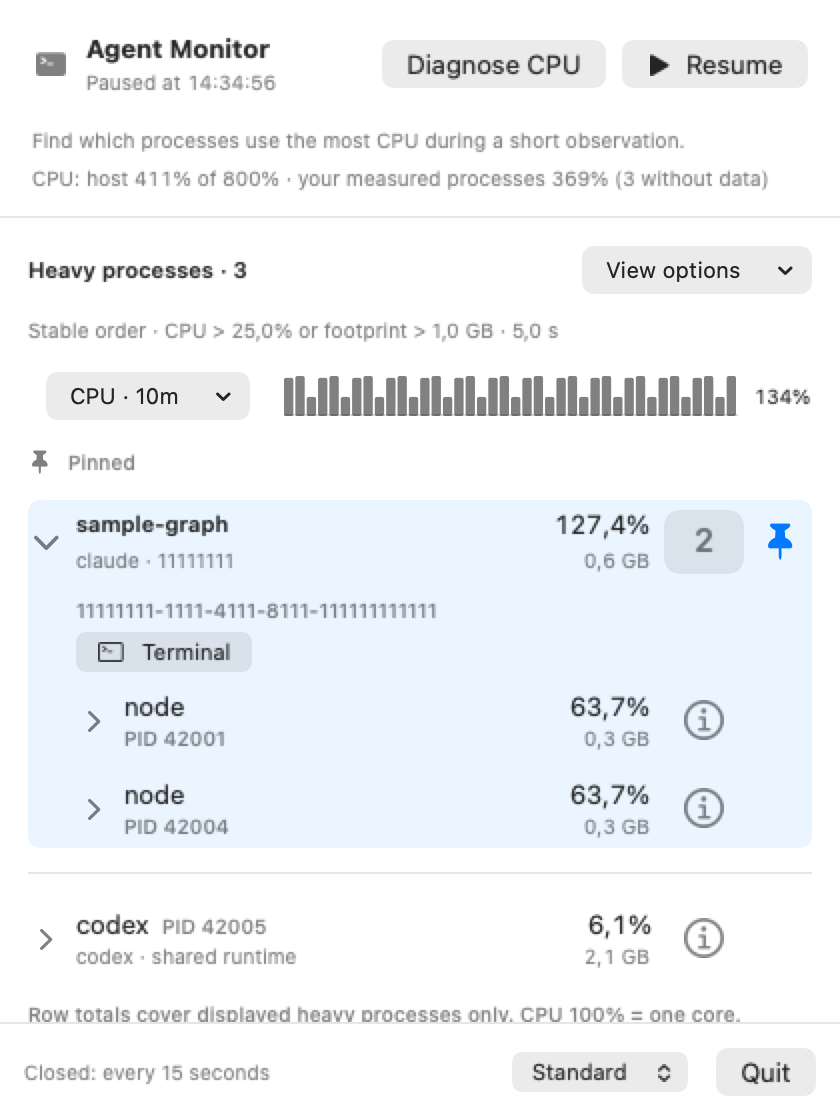
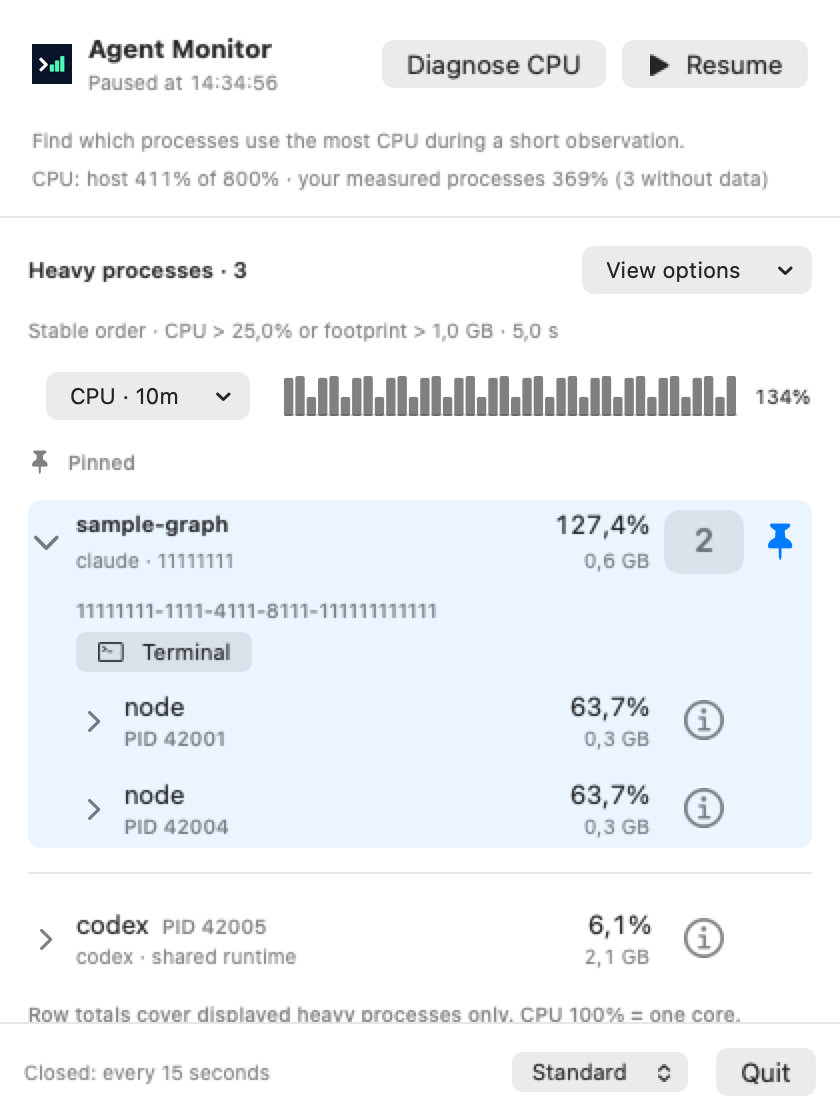
fix(menubar): separate detached controls from the branded header
Keep AppKit's implicit detachment and fixed panel size. Cache the decoded logo so sampling refreshes do not reload the artwork.

Changed region(s): [[0.031, 0.0312, 0.3405, 0.0938]]

diff --git a/Tests/AgentMonitorMenuBarTests/MenuBarRenderTests.swift b/Tests/AgentMonitorMenuBarTests/MenuBarRenderTests.swift
@@ -453,3 +453,53 @@ private struct DisclosureChevronFixture: View {
     let delegate = MenuBarDelegate()
     #expect(delegate.popoverShouldDetach(NSPopover()))
 }
+
+@Test @MainActor func detachedHeaderReservesCloseButtonSpaceAndResetsOnReopen() async throws {
+    let model = MenuBarModel { _, _, _, _ in }
+    let delegate = MenuBarDelegate(model: model)
+    model.open()
+    let host = NSHostingView(rootView: MenuBarView(model: model).background(Color.white))
+    host.appearance = NSAppearance(named: .aqua)
+    host.frame = NSRect(x: 0, y: 0, width: 420, height: 560)
+    delegate.popoverDidDetach(NSPopover())
+    #expect(model.isDetached)
+    host.layoutSubtreeIfNeeded()
+    #expect(host.fittingSize == NSSize(width: 420, height: 560))
+    let bitmap = try #require(host.bitmapImageRepForCachingDisplay(in: host.bounds))
+    host.cacheDisplay(in: host.bounds, to: bitmap)
+    let scale = Double(bitmap.pixelsWide) / host.bounds.width
+    for y in 0..<Int(24 * scale) {
+        for x in 0..<bitmap.pixelsWide {
+            let color = try #require(bitmap.colorAt(x: x, y: y)?.usingColorSpace(.deviceRGB))
+            #expect(color.redComponent > 0.99 && color.greenComponent > 0.99 && color.blueComponent > 0.99)
+        }
+    }
+    if let output = ProcessInfo.processInfo.environment["MENUBAR_DETACHED_PREVIEW_PATH"] {
+        try #require(bitmap.representation(using: .png, properties: [:])).write(
+            to: URL(fileURLWithPath: output))
+    }
+    delegate.popoverWillClose(
+        Notification(
+            name: NSPopover.willCloseNotification,
+            userInfo: [NSPopover.closeReasonUserInfoKey: NSPopover.CloseReason.standard.rawValue]))
+    #expect(!model.isDetached)
+    model.open()
+    #expect(!model.isDetached)
+    await model.stop()
+}
+
+@Test @MainActor func nativeHeaderLogoIsTheCanonicalArtwork() throws {
+    let url = try #require(MenuBarLogo.resourceURL)
+    let repository = URL(fileURLWithPath: #filePath).deletingLastPathComponent()
+        .deletingLastPathComponent().deletingLastPathComponent()
+    #expect(
+        try Data(contentsOf: url)
+            == Data(contentsOf: repository.appendingPathComponent("docs/assets/agent-monitor.webp")))
+    let image = try #require(MenuBarLogo.image)
+    #expect(image.size == NSSize(width: 256, height: 256))
+    let bitmap = try #require(image.representations.first as? NSBitmapImageRep)
+    for _ in 0..<100 {
+        #expect(MenuBarLogo.image === image)
+        #expect(MenuBarLogo.image?.representations.first === bitmap)
+    }
+}

diff --git a/Sources/AgentMonitorMenuBar/MenuBarView.swift b/Sources/AgentMonitorMenuBar/MenuBarView.swift
@@ -20,7 +20,10 @@ struct MenuBarView: View {
     var body: some View {
         VStack(alignment: .leading, spacing: 0) {
             HStack {
-                Image(systemName: "terminal.fill").foregroundStyle(.secondary)
+                if let logo = MenuBarLogo.image {
+                    Image(nsImage: logo).resizable().interpolation(.high)
+                        .frame(width: 20, height: 20).accessibilityHidden(true)
+                }
                 VStack(alignment: .leading, spacing: 3) {
                     Text("Agent Monitor").font(.headline)
                     if model.diagnosis.state.isVisible {
@@ -51,6 +54,7 @@ struct MenuBarView: View {
                 }
             }
             .padding()
+            .padding(.top, model.isDetached ? 24 : 0)
             if !model.diagnosis.state.isVisible {
                 Text(DiagnosisViewState.purpose)
                     .font(.caption).foregroundStyle(.secondary)

diff --git a/Sources/AgentMonitorMenuBar/MenuBarModel.swift b/Sources/AgentMonitorMenuBar/MenuBarModel.swift
@@ -22,6 +22,7 @@ final class MenuBarModel {
     @ObservationIgnored private var arrivalExpiry: Task<Void, Never>?
     @ObservationIgnored private var arrivalDeadline: ContinuousClock.Instant?
     private(set) var isOpen = false
+    private(set) var isDetached = false
     private(set) var error: String?
     private(set) var lastActionResult: ActionResult?
     private(set) var savedMessage: SavedMessage?
@@ -78,6 +79,11 @@ final class MenuBarModel {
         updateArrivals()
         refreshIndicator()
         startCollection()
+    }
+
+    func detach() {
+        guard isOpen else { return }
+        isDetached = true
     }
 
     func setLiveIcon(_ enabled: Bool) {
@@ -138,6 +144,7 @@ final class MenuBarModel {
     }
 
     func close() {
+        isDetached = false
         diagnosis.dismiss()
         if let panel = report.actionPanel {
             switch panel.phase {

diff --git a/Sources/AgentMonitorMenuBar/MenuBarLogo.swift b/Sources/AgentMonitorMenuBar/MenuBarLogo.swift
@@ -1,0 +1,14 @@
+import AppKit
+
+@MainActor enum MenuBarLogo {
+    static let resourceURL = Bundle.module.url(forResource: "agent-monitor", withExtension: "webp")
+    // Sampling refreshes reuse this decoded artwork rather than loading the resource in the view body.
+    static let image: NSImage? = {
+        guard let resourceURL, let data = try? Data(contentsOf: resourceURL),
+            let bitmap = NSBitmapImageRep(data: data)
+        else { return nil }
+        let image = NSImage(size: bitmap.size)
+        image.addRepresentation(bitmap)
+        return image
+    }()
+}

diff --git a/Package.swift b/Package.swift
@@ -16,7 +16,8 @@ let package = Package(
     targets: [
         .executableTarget(
             name: "AgentMonitorMenuBar",
-            dependencies: ["AgentMonitorCore", "AgentMonitorPresentation", "AgentMonitorActions"]),
+            dependencies: ["AgentMonitorCore", "AgentMonitorPresentation", "AgentMonitorActions"],
+            resources: [.process("Resources")]),
         .testTarget(
             name: "AgentMonitorMenuBarTests", dependencies: ["AgentMonitorMenuBar"]),
         .target(name: "AgentMonitorCore"),

diff --git a/Sources/AgentMonitorMenuBar/MenuBarApp.swift b/Sources/AgentMonitorMenuBar/MenuBarApp.swift
@@ -111,6 +111,7 @@ final class MenuBarDelegate: NSObject, NSApplicationDelegate, NSPopoverDelegate 
         model.close()
     }
     func popoverShouldDetach(_ popover: NSPopover) -> Bool { true }
+    func popoverDidDetach(_ popover: NSPopover) { model.detach() }
 
     func applicationShouldTerminate(_ sender: NSApplication) -> NSApplication.TerminateReply {
         Task {

diff --git a/docs/development.md b/docs/development.md
@@ -78,7 +78,7 @@ The generator places each visible grapheme at its terminal-cell coordinate and l
 
 [Preview tests](../Tests/PreviewTests/PreviewTests.swift) exercise missing/stale asset detection, XML escaping, and process/session layouts at 60, 85, 120, and 160 columns. The preview represents one illustrative state, not every interaction or exact terminal theme. Keep the existing layout and PTY tests, and review style-only TUI changes visually even if the SVG bytes do not change. `monitor-preview` is not part of the installed CLI or release archive.
 
-Size documentation images for their displayed dimensions, allowing 2× resolution for raster icons. Keep optimized web assets rather than full-resolution masters, and check file size and visual quality before committing. The README logo is a 256 × 256 WebP displayed at 128 × 128; preserve explicit display dimensions and descriptive alternative text. Keep the additional [native panel screenshot](assets/menubar-preview.webp) alongside the TUI preview, using the [synthetic offscreen render](#build-and-coverage-details); it does not establish live anchoring.
+Size documentation images for their displayed dimensions, allowing 2× resolution for raster icons. Keep optimized web assets rather than full-resolution masters, and check file size and visual quality before committing. The README logo is a 256 × 256 WebP displayed at 128 × 128; preserve explicit display dimensions and descriptive alternative text. The native header bundles the same artwork in [its resources](../Sources/AgentMonitorMenuBar/Resources/agent-monitor.webp); the resource test requires byte equality with the README asset, so update both copies together. Keep the additional [native panel screenshot](assets/menubar-preview.webp) alongside the TUI preview, using the [synthetic offscreen render](#build-and-coverage-details); it does not establish live anchoring.
 
 ## Documentation and instruction maintenance
 
@@ -223,7 +223,7 @@ This smoke test does not establish provider message delivery, process terminatio
 
 ### Build and coverage details
 
-Build with `bash scripts/menubar.sh build`; the default is an optimized release build with debug-symbol generation disabled. Use `AGENT_MONITOR_BUILD_CONFIGURATION=debug bash scripts/menubar.sh build` for an unoptimized local build, or `swift run agent-monitor-menubar` for normal debugger symbols. The local ad-hoc bundle is `.build/Agent Monitor.app`; its resources retain the project license and [third-party notices](../THIRD_PARTY_NOTICES.md), including the full MIT terms for the shared terminal-width code. Use `bash scripts/menubar.sh run` to launch with the shell PATH, or `swift run agent-monitor-menubar` for direct executable development. The menu bar app is a maintained source-built feature. Its local bundle is not included in CLI release archives or Homebrew installation; distribution is deferred until the app is finished. It adds no third-party dependencies. CI builds the local app bundle and checks its property list, ad-hoc signature and bundled license/notice copies.
+Build with `bash scripts/menubar.sh build`; the default is an optimized release build with debug-symbol generation disabled. Use `AGENT_MONITOR_BUILD_CONFIGURATION=debug bash scripts/menubar.sh build` for an unoptimized local build, or `swift run agent-monitor-menubar` for normal debugger symbols. The local ad-hoc bundle is `.build/Agent Monitor.app`; its resources include the presentation schema bundle and native logo bundle, and retain the project license and [third-party notices](../THIRD_PARTY_NOTICES.md), including the full MIT terms for the shared terminal-width code. Use `bash scripts/menubar.sh run` to launch with the shell PATH, or `swift run agent-monitor-menubar` for direct executable development. The menu bar app is a maintained source-built feature. Its local bundle is not included in CLI release archives or Homebrew installation; distribution is deferred until the app is finished. It adds no third-party dependencies. CI builds the local app bundle and checks its property list, ad-hoc signature and bundled license/notice copies.
 
 Run `swift test --filter AgentMonitorMenuBarTests` for lifecycle and fake-action coverage: explicit lifecycle startup with a single 250 ms first sample, 15-second closed sampling, open/closed cadence switching without duplicate collectors, static-mode cancellation, stale-result rejection, sequential reopening, visible collection errors, frozen termination identity, explicit message review, root routing, uncertain-send handling and closed-panel action rejection. The production `MenuBarCollection` source is also tested with the real `MonitoringSession`, injected process/registry readers and a controlled clock: closed sampling avoids listings, opening resolves exact runtime/child sessions, closing retains cached bindings without relisting, and reopening refreshes due bindings without creating a second reader. Draft tests cover dismissal during composition/review, fresh recipient preparation, explicit cancellation, failed target/recipient verification, protection against overwriting another draft and uncertain-send exclusion. Native layout tests check 32-point pin targets, aligned 40 × 32-point count/info controls and uncropped large counts. They bound process summaries to two lines at compact widths and verify fixed panel height through sparse lists, disclosure/overflow, pausing and action review, plus user-selected sizes, screen limits and inline keyboard help. An offscreen inheritance test changes the parent appearance light → dark → light and checks the semantic background and unchanged geometry. Pause tests hold row membership/order and details, apply the latest pending sample on resume, guard action review and reset to live on reopening; TUI tests also cover visible pause/resume cues at narrow widths. Pin tests cover live values and insertion order, missing targets, PID reuse, return/unpin, grouping changes and parent/child overlap without duplicated rows or inflated totals. Native model tests cover settings/pins across dismissal, sampling control delivery without restart, focus traversal through flattened/pinned rows, and fake group terminal focus. Native menu tests cover first-layout availability and first-mouse acceptance, checked presets/custom current values, action dispatch, and retention of the same control/submenu objects across loading, empty and populated reports. Delegate tracking is simulated; these guards do not establish physical click delivery or live submenu tracking on a display. Pin command tests reject hidden/stale targets and action panels while permitting missing-pin removal. Existing core/presentation/action tests continue to guard attribution, grouping and transport behavior. Status-menu tests cover secondary-click routing, waiting/unavailable/static status, heavy-count explanations matching applied table filters, shared checked options, deferred Open/Quit command selection and unchanged menu content while sampling continues. They do not establish physical event delivery or menu positioning. No test sends messages or signals live workloads.
 

diff --git a/PLAN.md b/PLAN.md
@@ -10,7 +10,7 @@ Keep this file limited to unfinished work, scope decisions and the next action. 
 
 - [ ] **ACTIONS-03 — Complete manual terminal-focus validation.** Terminal.app tab selection is implemented and was confirmed by the user on 2026-10-15. Next action: check a background window, minimized window, another Space, full screen, monitor and target in the same window, and the first Automation prompt using disposable tabs. Follow the [manual gate](docs/development.md#manual-terminal-focus-check); fake-adapter tests cannot establish macOS activation behavior.
 - [ ] **MENUBAR-01 — User-run native smoke test pending.** Headless checks are the default; Computer Use is disabled. The user runs the [manual macOS smoke test](docs/development.md#manual-macos-smoke-test) and reports results before this integration gate can close. First retest initial table focus, retained menu focus across refreshes, ordinary ←/→ and scoped Shift+←/→ on group/process headers; headless policy/input regressions pass, but physical delivery remains unconfirmed. Live app Automation/focus and provider messaging need disposable-session validation; measure ten-minute closed-panel CPU/wakeups separately for the live 15-second icon and static mode before making sustained-energy claims. Distribution is deferred until the app is finished; feature expansion remains a separate decision.
-- [ ] **MENUBAR-03 — Targeted native accessibility and interaction validation.** The user runs live checks when the affected behavior needs them; these are not routine headless-validation gates. Offscreen checks cover fixed heights across sparse/expanded/paused/action states, user-selected sizes, screen capping, inherited light/dark appearance and menu identity across updates. Check finite diagnosis usability, Cancel/Back and Run again with real blocking reads. Action-review drag detachment was confirmed by the user on 2026-10-17; the user reported the row-focus, copy and disclosure fixes working on 2026-10-17. Review the updated diagnosis report layout for readability. Still check detachment while paused and while diagnosis is collecting; confirm state and open-panel sampling survive, then close the detached window and verify the normal close lifecycle and diagnosis cancellation. Assess concurrent collection cost separately before making overhead claims. Check built-in popover drag detachment, continued sampling, detached close/reopen and live anchoring while changing the size preset, enlarged group/count/info targets and their VoiceOver meaning, pin hover/focus feedback and repeated `.` pin/unpin and `y` PID copying, right-click/Control-click status-menu opening and return to normal left-click, first-click View options opening and submenu tracking during refreshes, row arrow navigation and native Return/Space activation with scroll-to-focus, and VoiceOver with synthetic fixtures; [reference findings](docs/research/native-menu-design.md#unresolved-empirical-questions) distinguish source/offscreen evidence from live interaction.
+- [ ] **MENUBAR-03 — Targeted native accessibility and interaction validation.** The user runs live checks when the affected behavior needs them; these are not routine headless-validation gates. Offscreen checks cover fixed heights across sparse/expanded/paused/action states, user-selected sizes, screen capping, inherited light/dark appearance and menu identity across updates. Check finite diagnosis usability, Cancel/Back and Run again with real blocking reads. Action-review drag detachment was confirmed by the user on 2026-10-17; the user reported the row-focus, copy and disclosure fixes working on 2026-10-17. Review the updated diagnosis report layout for readability and confirm that the detached close button clears the header logo/title. Still check detachment while paused and while diagnosis is collecting; confirm state and open-panel sampling survive, then close the detached window and verify the normal close lifecycle and diagnosis cancellation. Assess concurrent collection cost separately before making overhead claims. Check built-in popover drag detachment, continued sampling, detached close/reopen and live anchoring while changing the size preset, enlarged group/count/info targets and their VoiceOver meaning, pin hover/focus feedback and repeated `.` pin/unpin and `y` PID copying, right-click/Control-click status-menu opening and return to normal left-click, first-click View options opening and submenu tracking during refreshes, row arrow navigation and native Return/Space activation with scroll-to-focus, and VoiceOver with synthetic fixtures; [reference findings](docs/research/native-menu-design.md#unresolved-empirical-questions) distinguish source/offscreen evidence from live interaction.
 
 Real terminal Codex workload attribution and live Codex child-recipient routing/message delivery remain [coverage gaps](docs/development.md#validation-coverage), not unfinished PoC acceptance gates. Do not manufacture agent work or send messages to existing sessions to close them without specific authorization.
 

diff --git a/docs/architecture.md b/docs/architecture.md
@@ -270,7 +270,7 @@ TUI and native live tables default to a 5-second interval; text/JSONL default to
 
 ## Native menu bar app
 
-The panel's **Diagnose CPU** button starts the shared finite run without confirmation, including while the live view is paused. Help discloses three one-second waits plus scans and bounded provider lookups. The diagnosis occupies the existing scroll area with Cancel/Run again and a fixed Back control; it does not replace live snapshots, history or icon input. Action review blocks starting diagnosis, and diagnosis has no process actions. Drag detachment is not dismissal for any panel state: the visible detached panel retains action review, saved message draft, pause state, selection, open-panel sampling cadence and any diagnosis run. Popover dismissal and detached-window closure use the ordinary close lifecycle, including discarding and cancelling diagnosis. The delegate distinguishes AppKit’s detach-to-window close reason from standard closure, as defined by `NSPopover.h`; actual detached-window close notification delivery remains a user-run smoke check. Quit drains diagnosis alongside ordinary collection and actions.
+The panel's **Diagnose CPU** button starts the shared finite run without confirmation, including while the live view is paused. Help discloses three one-second waits plus scans and bounded provider lookups. The diagnosis occupies the existing scroll area with Cancel/Run again and a fixed Back control; it does not replace live snapshots, history or icon input. Action review blocks starting diagnosis, and diagnosis has no process actions. Drag detachment is not dismissal for any panel state: the visible detached panel retains action review, saved message draft, pause state, selection, open-panel sampling cadence and any diagnosis run. Popover dismissal and detached-window closure use the ordinary close lifecycle, including discarding and cancelling diagnosis. The delegate distinguishes AppKit’s detach-to-window close reason from standard closure, as defined by `NSPopover.h`; actual detached-window close notification delivery remains a user-run smoke check. Quit drains diagnosis alongside ordinary collection and actions. AppKit’s did-detach callback reserves a 24-point strip above the native header for its overlaid close button; closing resets the detached layout. The header uses the bundled Agent Monitor logo, decoded once and reused across refreshes; the status icon remains the monochrome load indicator.
 
 Apple's interface guidance is the platform baseline; CodexBar is the primary visual reference for density, hierarchy and progressive disclosure, with RepoBar and Trimmy as secondary comparisons. The inline composer and action review justify the complex-content exception to Apple's preference for a menu. Keep system typography and semantic colors, and preserve shared core/action ownership. Reference observations and their limits are recorded in [native menu design research](research/native-menu-design.md).
 
